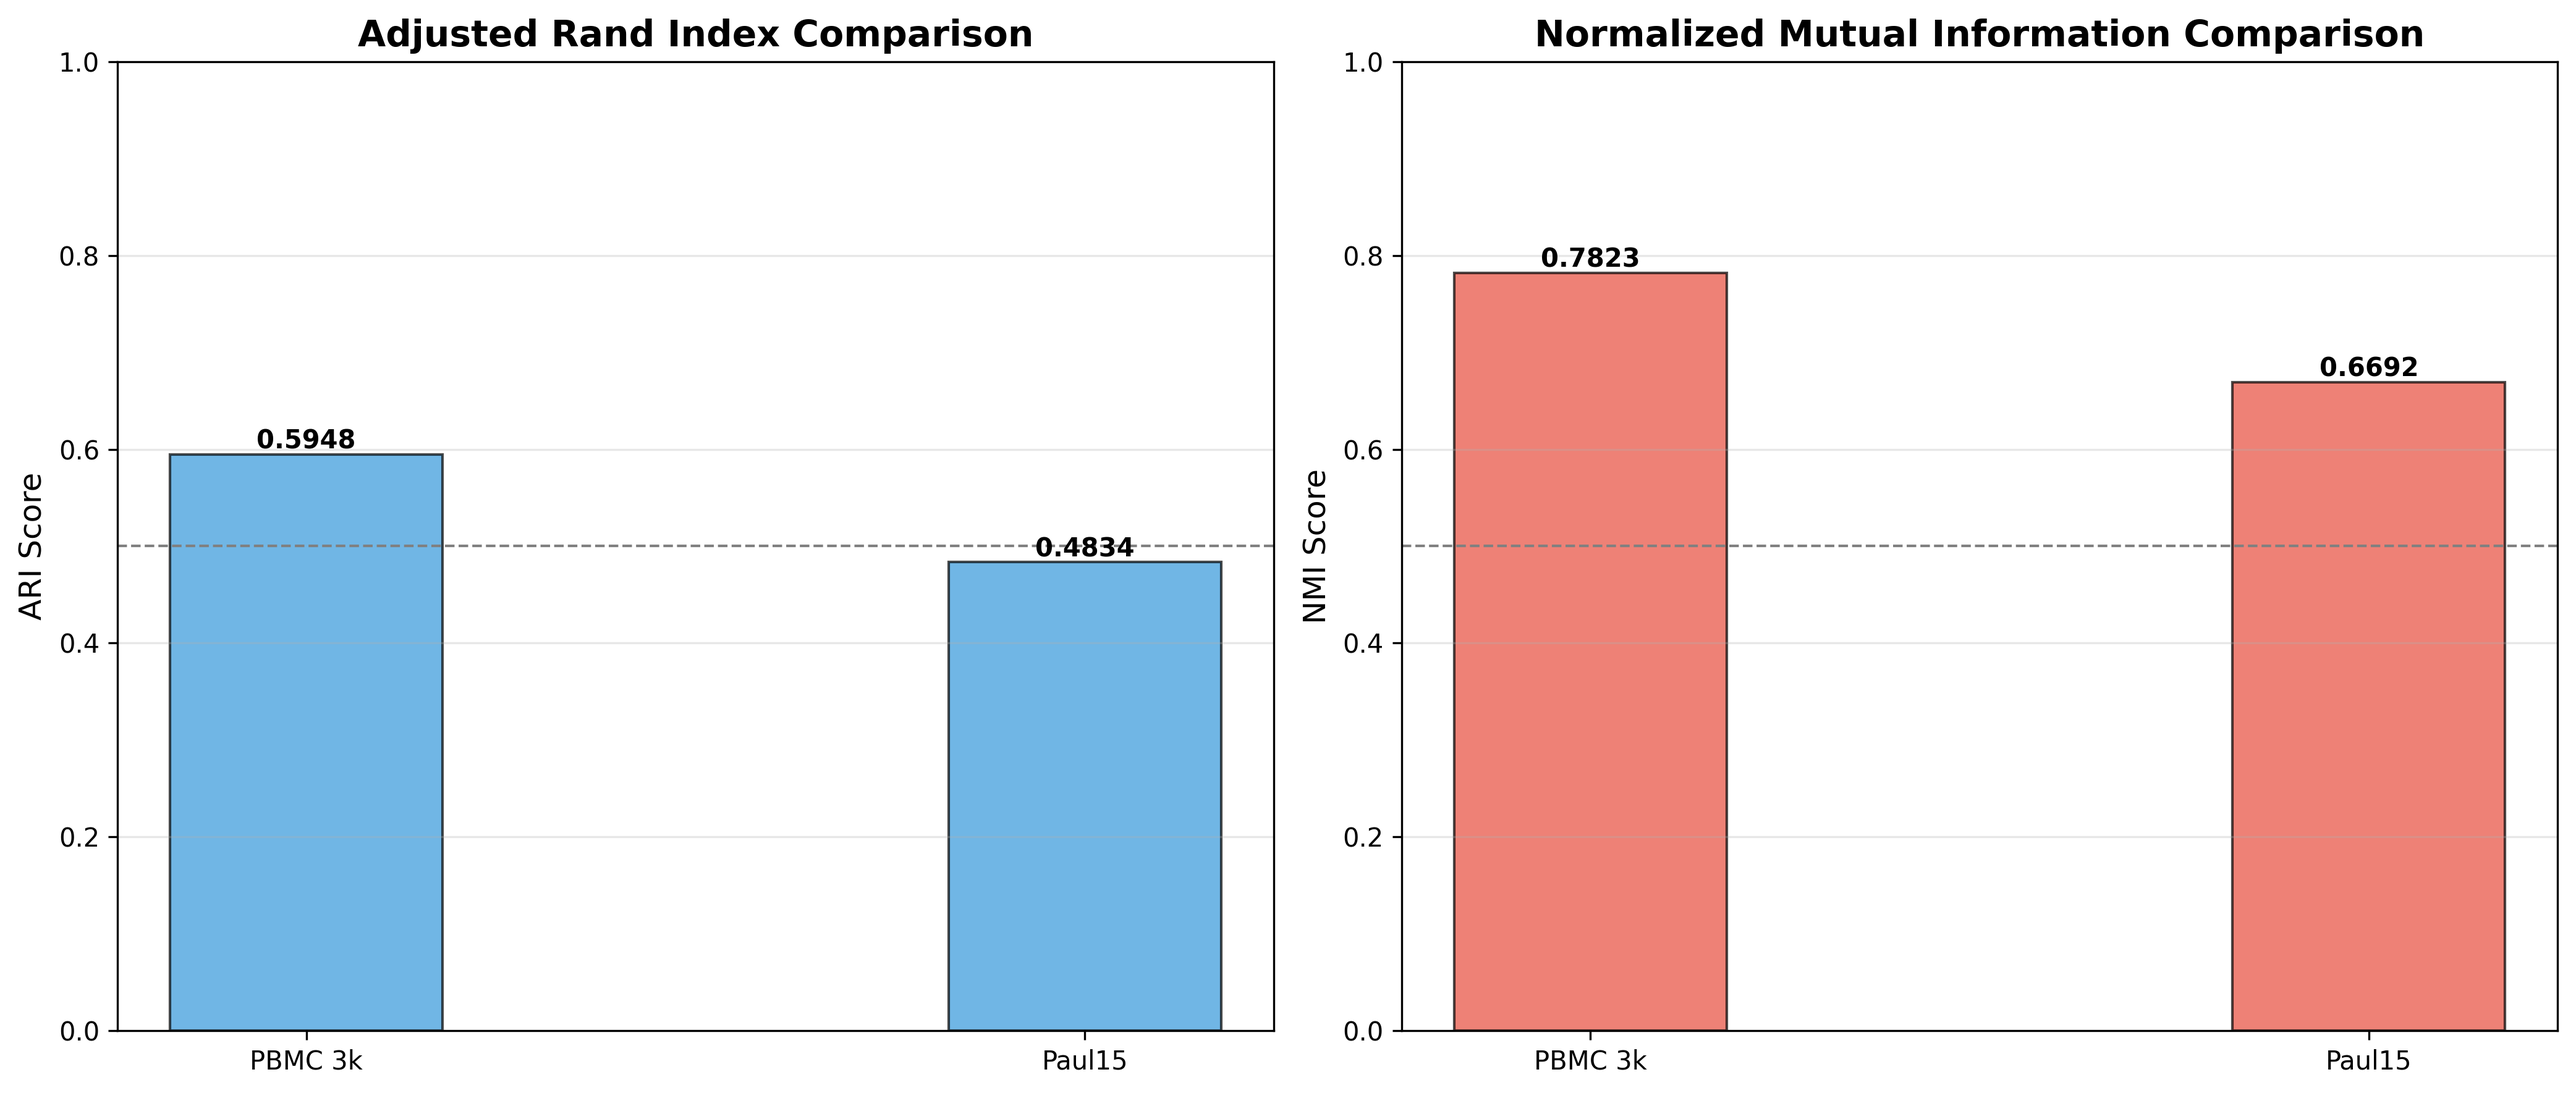
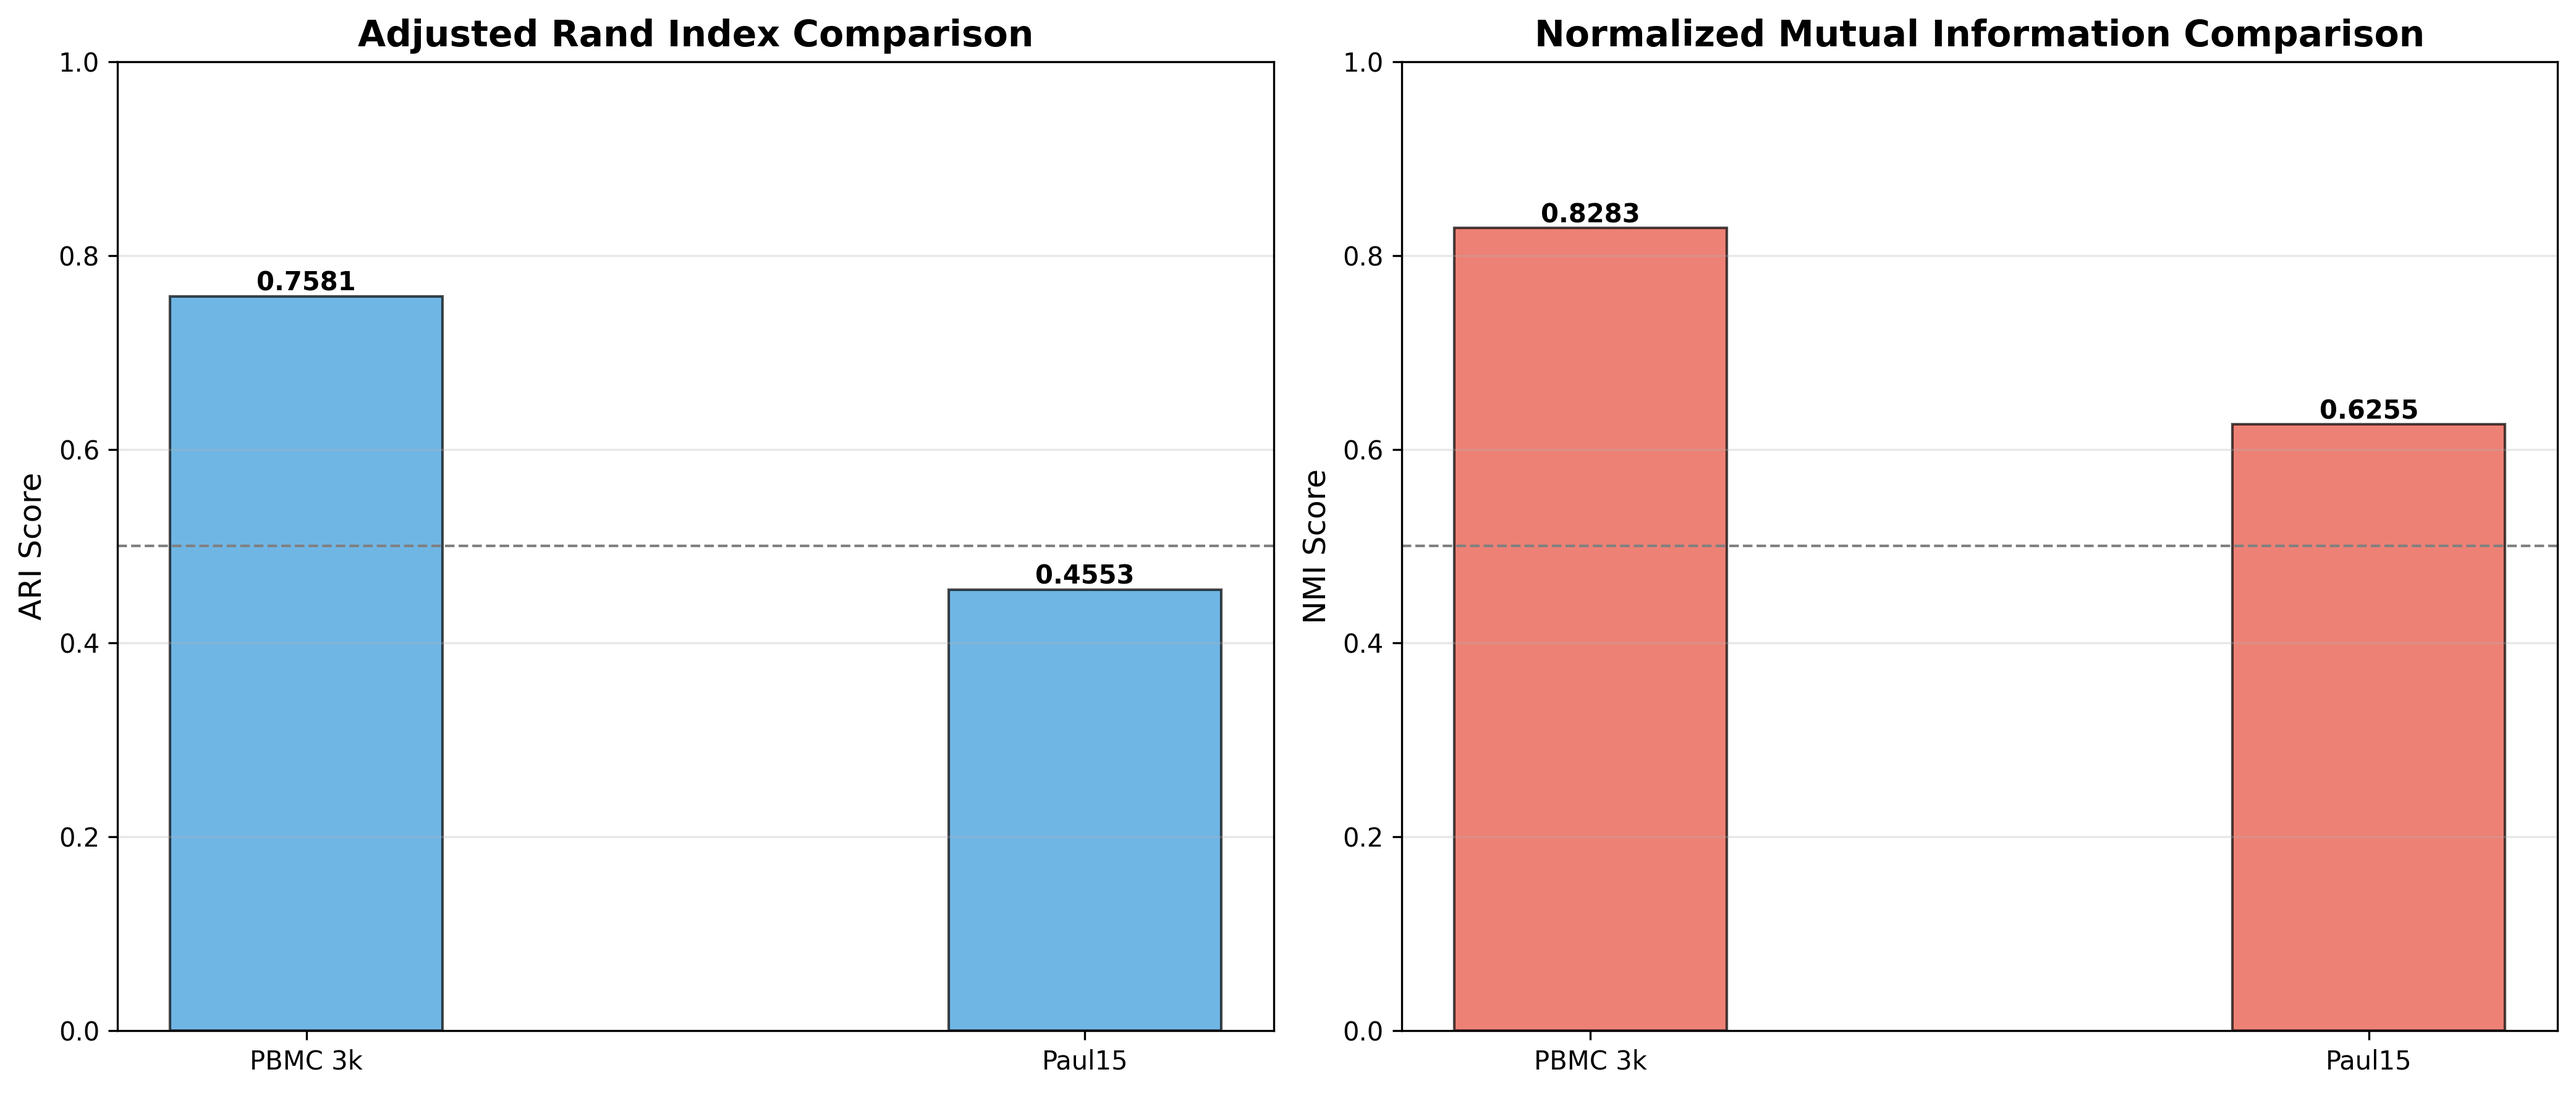
slight improvements to SIMLR implementation

diff --git a/simlr/SIMLR_implementation.py b/simlr/SIMLR_implementation.py
@@ -1,9 +1,8 @@
 import numpy as np
-from scipy.spatial.distance import pdist, squareform, cdist
+from scipy.spatial.distance import pdist, squareform
 from scipy.sparse.linalg import eigsh
 from sklearn.cluster import KMeans
 from sklearn.manifold import TSNE
-import warnings
 
 class SIMLR:
     """
@@ -25,10 +24,10 @@ class SIMLR:
         self.n_iter = n_iterations
         self.logging = logging
         
-        self.S_ = None      # Learned Similarity Matrix
-        self.L_ = None      # Latent Matrix
-        self.w_ = None      # Kernel Weights
-        self.kernels = []  # Computed Kernels
+        self.S_ = None 
+        self.L_ = None 
+        self.w_ = None   
+        self.kernels = []  
         self.labels_ = None # Cluster labels
 
         self.history_ = {
@@ -40,70 +39,74 @@ class SIMLR:
 
     def _cal_kernels(self, X):
         """
-        Constructs multiple Gaussian kernels based on Euclidean distance.
-        Parameters: Sigma (1.0 to 2.0) and K neighbors (10 to 30).
+        Constructs multiple Gaussian kernels based on Euclidean distances
         """
-        N = X.shape[0]
-        # Calculate full pairwise euclidean distances
-        # Note: For very large N, approximate NN should be used (e.g., Annoy) as per paper.
-        # Here we implement the exact version for standard usage.
+        # For very large N, approximate NN should be used
         dist_matrix = squareform(pdist(X, metric='euclidean'))
         dist_sq = dist_matrix ** 2
         
         kernels = []
-        
         k_range = range(10, 32, 2) 
         sigma_range = [1.0, 1.25, 1.5, 1.75, 2.0]
-        
+
+        # Sort distances to find knn distance
+        sorted_dist = np.sort(dist_matrix, axis=1)
+
         for k in k_range:
-            # Determine epsilon_ij scale based on k-th neighbor
-            # Sort distances to find k-th neighbor distance
-            sorted_dist = np.sort(dist_matrix, axis=1)
-            # Avoid self-distance (index 0)
-            k_dist = sorted_dist[:, k]
-            
-            # Average scale approximation for variance
-            # sigma_ij = (scale_i + scale_j) / 2
-            # Here we simplify to a global scale per k for vectorization or 
-            # use the broadcasting approach. The paper implies specific mu_i.
-            mu = k_dist.reshape(-1, 1) # N x 1
+            mu = np.mean(sorted_dist[:, 1:k+1], axis=1, keepdims=True)
             mu_ij = (mu + mu.T) / 2
             
             for sigma in sigma_range:
-                # Kernel entry: exp( - ||x_i - x_j||^2 / (2 * (sigma * mu_ij)^2) )
-                # Note: Paper Eq(3) uses simple variance term epsilon_ij
-                denom = (sigma * mu_ij) ** 2
-                # Avoid division by zero
-                denom[denom == 0] = 1e-10
+                epsilon_ij = sigma * mu_ij
+                epsilon_ij = np.maximum(epsilon_ij, 1e-10)  
                 
-                K = np.exp(-dist_sq / (2 * denom))
-                
-                # Zero out diagonal
+                coeff = 1.0 / (epsilon_ij * np.sqrt(2 * np.pi))
+                K = coeff * np.exp(-dist_sq / (2 * epsilon_ij ** 2))
+
                 np.fill_diagonal(K, 0)
                 kernels.append(K)
                 
         return np.array(kernels)
 
-    def _project_simplex(self, v):
+    def _project_simplex(self, v_i):
         """
-        Solves the projection problem: min ||x - v||^2 s.t. sum(x)=1, x>=0.
-        Used to update rows of S.
+        Simplex projection using centering transformation + Newton's method.
         """
-        n_features = v.shape[0]
-        u = np.sort(v)[::-1]
-        cssv = np.cumsum(u)
-        ind = np.arange(n_features) + 1
-        cond = u - (cssv - 1) / ind > 0
+        N = len(v_i)
+
+        u_i = v_i - np.mean(v_i) + (1.0 / N)
         
-        # Handle edge case where no elements satisfy condition
-        if not np.any(cond):
-            # Return uniform distribution
-            return np.ones(n_features) / n_features
+        sigma = 0.0
+        for _ in range(50):
+            diff = sigma - u_i
+            positive_parts = np.maximum(diff, 0)
             
-        rho = ind[cond][-1]
-        theta = (cssv[rho - 1] - 1) / rho
-        w = np.maximum(v - theta, 0)
-        return w
+            f_val = np.sum(positive_parts) / (N - 1) - sigma
+            f_prime = np.sum(diff > 0) / (N - 1) - 1.0
+            
+            if abs(f_prime) < 1e-12:
+                break
+            
+            sigma_new = sigma - f_val / f_prime
+            if abs(sigma_new - sigma) < 1e-10:
+                break
+            sigma = sigma_new
+        
+        return np.maximum(u_i - sigma, 0)
+
+
+    def _update_S(self, K_sum, L_dist, N):
+        """
+        Full S update step.
+        """
+        V = (K_sum + self.gamma * L_dist) / (2 * self.beta)
+        
+        S_new = np.zeros((N, N))
+        for i in range(N):
+            S_new[i, :] = self._project_simplex(V[i, :])
+        
+        return (S_new + S_new.T) / 2
+    
 
     def fit(self, X):
         """
@@ -135,12 +138,7 @@ class SIMLR:
             # Step 1: Update S
             K_sum = np.tensordot(self.w_, self.kernels, axes=(0, 0)) # N x N
             L_dist = np.dot(self.L_, self.L_.T) 
-            target = (K_sum + self.gamma * L_dist) / (2 * self.beta)
-            
-            for i in range(N):
-                self.S_[i, :] = self._project_simplex(target[i, :])
-            
-            self.S_ = (self.S_ + self.S_.T) / 2
+            self.S_ = self._update_S(K_sum, L_dist, N)
             
             # Step 2: Update L
             I_N = np.eye(N)
@@ -186,25 +184,20 @@ class SIMLR:
     def _diffusion_enhancement(self, S, alpha=0.8, K=20):
         """
         Enhances similarity matrix using diffusion process.
-        Paper formula (Step 4): H_{t+1} = (1 - alpha) * P^T * H_t * P + alpha * S
+        H_{t+1} = (1 - alpha) * P^T * H_t * P + alpha * S
         """
         N = S.shape[0]
-        # Construct transition matrix P
-        # Only keep top K neighbors for sparsity/noise reduction
+
         P = np.zeros_like(S)
         for i in range(N):
-            # Indices of top K neighbors
             top_k_idx = np.argsort(S[i, :])[-K:]
             P[i, top_k_idx] = S[i, top_k_idx]
         
-        # Normalize rows to sum to 1
         row_sums = P.sum(axis=1, keepdims=True)
-        row_sums[row_sums == 0] = 1 # avoid div zero
+        row_sums[row_sums == 0] = 1
         P = P / row_sums
         
-        # Apply paper's diffusion formula: H_{t+1} = (1 - alpha) * P^T * H_t * P + alpha * S
         H = S.copy()
-        # Small number of diffusion steps
         for _ in range(5):
             H = (1 - alpha) * np.dot(P.T, np.dot(H, P)) + alpha * S
             
@@ -212,23 +205,15 @@ class SIMLR:
 
     def fit_transform(self, X, embedding_dim=2):
         """
-        Runs fit and then performs dimensionality reduction.
-        Paper uses modified t-SNE with similarity S directly as P_ij.
-        We approximate by converting S to distance and using precomputed metric.
+        Runs fit and then performs dimensionality reduction with t-SNE with similarity S directly as P_ij.
         Returns:
             embedding: N x 2 (or 3) matrix for visualization.
         """
         self.fit(X)
         
-        # Use learned similarity S directly in t-SNE
-        # Standard t-SNE computes P_ij from Gaussian kernel on distances
-        # SIMLR's modification: Use S as P_ij directly
-        
         S_sym = (self.S_ + self.S_.T) / 2
-        # Convert similarity to distance
         distances = np.sqrt(np.maximum(0, 2 * (1 - S_sym)))
         
-        # Apply t-SNE with precomputed distances
         tsne = TSNE(n_components=embedding_dim, metric='precomputed', init='random', 
                    perplexity=min(30, (len(S_sym) - 1) // 3))
         embedding = tsne.fit_transform(distances)
@@ -242,26 +227,50 @@ class SIMLR:
         if self.L_ is None:
             raise ValueError("Model not fitted. Run fit() first.")
             
-        # "For clustering with k-means, we use... N x B latent matrix Z (L in code)"
         kmeans = KMeans(n_clusters=self.C, n_init=10, random_state=42)
         self.labels_ = kmeans.fit_predict(self.L_)
         return self.labels_
 
-# --- Example Usage ---
+
+# Example for synthetic dataset
 if __name__ == "__main__":
-    # Create synthetic single-cell data (e.g., 3 blobs)
+    import matplotlib.pyplot as plt
     from sklearn.datasets import make_blobs
-    X_syn, y_syn = make_blobs(n_samples=200, n_features=50, centers=3, random_state=42)
-    
-    # Initialize SIMLR
-    # C=3 clusters
-    simlr = SIMLR(n_clusters=3, verbose=True)
-    
-    # Fit and get visualization embedding
+    from sklearn.metrics import adjusted_rand_score, normalized_mutual_info_score
+
+    X_syn, y_syn = make_blobs(n_samples=200, n_features=50, centers=3,
+                              cluster_std=3.0, center_box=(-2, 2), random_state=42)
+
+    simlr = SIMLR(n_clusters=3, logging=True)
+
     embedding = simlr.fit_transform(X_syn)
-    
-    # Get clusters
     clusters = simlr.predict()
-    
-    print("Computed Clusters:", clusters[:10], "...")
-    print("Embedding Shape:", embedding.shape)
+
+    ari = adjusted_rand_score(y_syn, clusters)
+    nmi = normalized_mutual_info_score(y_syn, clusters)
+    print(f"\nARI: {ari:.4f}, NMI: {nmi:.4f}")
+
+    # Visualize embedding with predicted clusters vs actual labels
+    fig, axes = plt.subplots(1, 2, figsize=(14, 6))
+
+    # Plot 1: Predicted clusters
+    scatter1 = axes[0].scatter(embedding[:, 0], embedding[:, 1],
+                              c=clusters, cmap='viridis', s=50, alpha=0.7, edgecolors='k', linewidth=0.5)
+    axes[0].set_title(f'SIMLR Predicted Clusters\nARI: {ari:.4f}', fontsize=12, fontweight='bold')
+    axes[0].set_xlabel('t-SNE Component 1', fontsize=10)
+    axes[0].set_ylabel('t-SNE Component 2', fontsize=10)
+    plt.colorbar(scatter1, ax=axes[0], label='Predicted Cluster')
+    axes[0].grid(True, alpha=0.3)
+
+    # Plot 2: Actual labels
+    scatter2 = axes[1].scatter(embedding[:, 0], embedding[:, 1],
+                              c=y_syn, cmap='viridis', s=50, alpha=0.7, edgecolors='k', linewidth=0.5)
+    axes[1].set_title(f'Ground Truth Labels\nNMI: {nmi:.4f}', fontsize=12, fontweight='bold')
+    axes[1].set_xlabel('t-SNE Component 1', fontsize=10)
+    axes[1].set_ylabel('t-SNE Component 2', fontsize=10)
+    plt.colorbar(scatter2, ax=axes[1], label='True Label')
+    axes[1].grid(True, alpha=0.3)
+
+    plt.tight_layout()
+    plt.savefig('simlr_embedding_comparison.png', dpi=300, bbox_inches='tight')
+    plt.show()

diff --git a/simlr/visualize_simlr.py b/simlr/visualize_simlr.py
@@ -32,7 +32,7 @@ def visualize_simlr_results(dataset_path, dataset_name, output_prefix):
     
     # Run SIMLR
     print("Fitting SIMLR...")
-    simlr = SIMLR(n_clusters=n_clusters, n_iterations=30, verbose=False)
+    simlr = SIMLR(n_clusters=n_clusters, n_iterations=30, logging=False)
     embedding = simlr.fit_transform(X, embedding_dim=2)
     y_pred = simlr.predict()
     
@@ -126,7 +126,7 @@ def visualize_simlr_results(dataset_path, dataset_name, output_prefix):
     return ari, nmi
 
 
-def create_comparison_plot(results_dict, output_file='model_learning/comparison_plot.png'):
+def create_comparison_plot(results_dict, output_file='simlr/comparison_plot.png'):
     """
     Create a comparison plot across datasets.
     """
@@ -177,7 +177,7 @@ def create_comparison_plot(results_dict, output_file='model_learning/comparison_
 
 if __name__ == "__main__":
     import os
-    os.makedirs('model_learning/results', exist_ok=True)
+    os.makedirs('simlr/results', exist_ok=True)
     
     results = {}
     
@@ -185,7 +185,7 @@ if __name__ == "__main__":
     ari, nmi = visualize_simlr_results(
         "data/pbmc3k.h5ad", 
         "PBMC 3k",
-        "model_learning/results/pbmc3k"
+        "simlr/results/pbmc3k"
     )
     results['PBMC 3k'] = {'ARI': ari, 'NMI': nmi}
     
@@ -193,7 +193,7 @@ if __name__ == "__main__":
     ari, nmi = visualize_simlr_results(
         "data/paul15.h5ad", 
         "Paul15",
-        "model_learning/results/paul15"
+        "simlr/results/paul15"
     )
     results['Paul15'] = {'ARI': ari, 'NMI': nmi}
     
